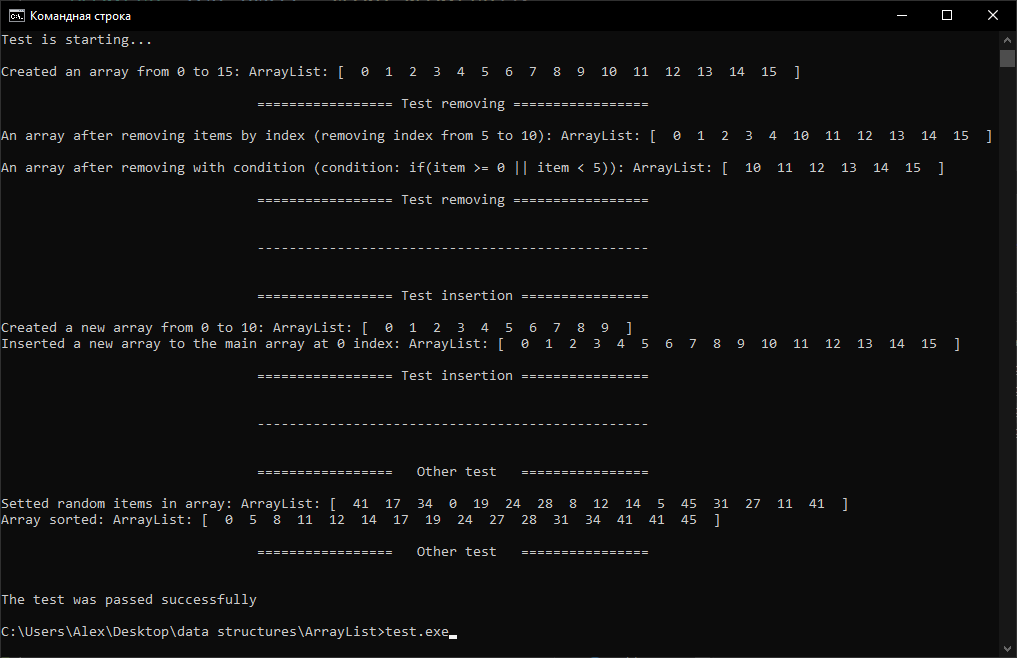
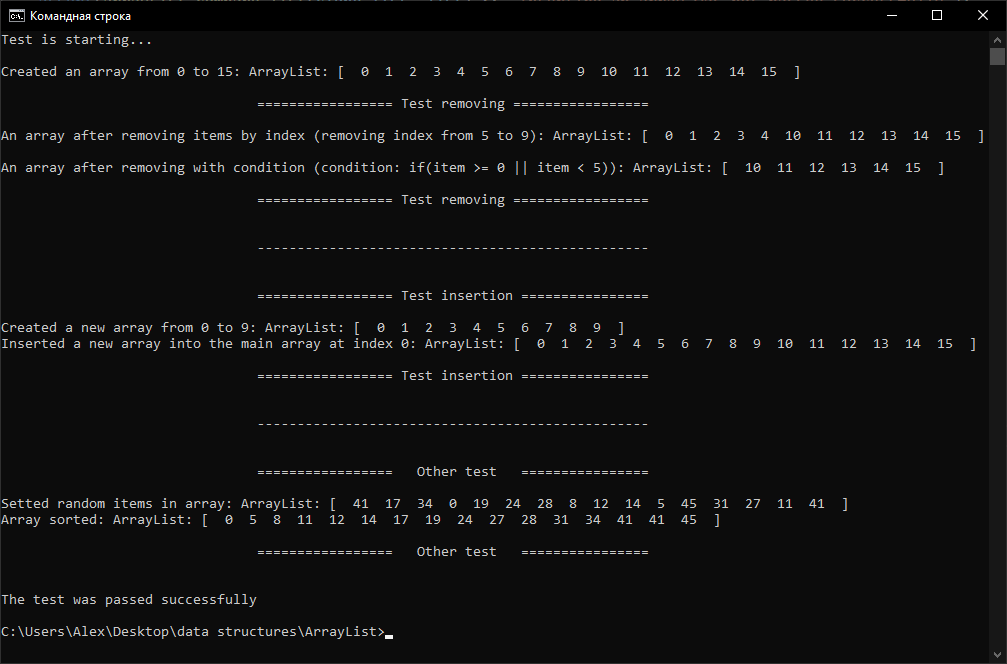
Created stack

diff --git a/Stack/stack.c b/Stack/stack.c
@@ -1,0 +1,98 @@
+#include "stack.h"
+
+#include <stdio.h>
+#include <stdlib.h>
+
+#define INITIAL_DEFAULT_SIZE 16
+
+Stack* create_stack()
+{
+    Stack* stack = malloc(sizeof(Stack));
+
+    if(stack == NULL)
+    {
+        fprintf(stderr, "Error alocation memory!\n");
+        return NULL;
+    }
+
+    stack->size = 0;
+    stack->capacity = INITIAL_DEFAULT_SIZE;
+
+    stack->array_stack = malloc(sizeof(void *) * INITIAL_DEFAULT_SIZE);
+
+    if(stack->array_stack == NULL)
+    {
+        fprintf(stderr, "Error alocation memory!\n");
+        return NULL;
+    }
+
+    return stack;
+}
+
+Stack* create_stackN(unsigned int size)
+{
+    Stack* stack = malloc(sizeof(Stack));
+
+    if(stack == NULL)
+    {
+        fprintf(stderr, "Error alocation memory!\n");
+        return NULL;
+    }
+
+    stack->size = 0;
+    stack->capacity = size;
+
+    stack->array_stack = malloc(sizeof(void *) * size);
+
+    if(stack->array_stack == NULL)
+    {
+        fprintf(stderr, "Error alocation memory!\n");
+        return NULL;
+    }
+
+    return stack;
+}
+
+void stack_push(Stack* stack, void* item)
+{
+    if(stack->size + 1 > stack->capacity)
+    {
+        /* */
+    }
+
+    stack->array_stack[stack->size++] = item;
+}
+
+void* stack_pop(Stack* stack)
+{
+    if(stack->size == 0)
+        return NULL;
+
+    return stack->array_stack[--stack->size];
+}
+
+void delete_stack(Stack* stack)
+{
+    free(stack->array_stack);
+    free(stack);
+}
+
+extern inline void remove_All(Stack* stack)
+{   
+    stack->size = 0;
+}
+
+extern inline unsigned int stack_get_size(Stack* stack)
+{
+    return stack->size;
+}
+
+extern inline unsigned int stack_get_capacity(Stack* stack)
+{
+    return stack->capacity;
+}
+
+extern inline _Bool stack_is_empty(Stack* stack)
+{
+    return stack->size == 0 ? true : false;
+}

diff --git a/ArrayList/test.c b/ArrayList/test.c
@@ -42,7 +42,7 @@ void test_arrayList()
     }
 
     printf("\n\t\t\t\t================= Test removing ================= \n\n");
-    printf("An array after removing items by index (removing index from 5 to 10): %s\n", arrayList_to_string(list, " %d ", buffer));
+    printf("An array after removing items by index (removing index from 5 to 9): %s\n", arrayList_to_string(list, " %d ", buffer));
     assert(arrayList_compare_list(list, test_remove) && "Removing by index was not passed successfully");
 
     arrayList_removeAll(test_remove);
@@ -77,11 +77,11 @@ void test_arrayList()
         arrayList_add_by_index(test_insert, i, (void *)i);
     }
 
-    printf("Created a new array from 0 to 10: %s\n", arrayList_to_string(test_insert, " %d ", buffer));
+    printf("Created a new array from 0 to 9: %s\n", arrayList_to_string(test_insert, " %d ", buffer));
 
     arrayList_insert_list(list, test_insert, 0);
 
-    printf("Inserted a new array to the main array at 0 index: %s\n", arrayList_to_string(list, " %d ", buffer));
+    printf("Inserted a new array into the main array at index 0: %s\n", arrayList_to_string(list, " %d ", buffer));
 
     assert(arrayList_compare_list(clone_list, list) && "Inserting an array was not passed successfully");
 
@@ -110,4 +110,6 @@ int main()
     printf("Test is starting...\n\n");
     test_arrayList();
     printf("\nThe test was passed successfully\n");
+
+    return 0;
 }

diff --git a/Stack/stack.h b/Stack/stack.h
@@ -1,0 +1,22 @@
+#include <stdbool.h>
+
+
+typedef struct {
+    unsigned int size;
+    unsigned int capacity;
+    _Bool auto_growing;
+    void** array_stack;
+} Stack;
+
+Stack* create_stack(); // create stack with default size
+Stack* create_stackN(unsigned int size); // create stack with N size
+
+void stack_push(Stack* stack, void* item); // add item to stack 
+void* stack_pop(Stack* stack); // get item from stack
+
+inline void remove_All(Stack* stack); // remove all the item from stack 
+inline unsigned int stack_get_size(Stack* stack); // get stack size
+inline unsigned int stack_get_capacity(Stack* stack); // get stack capacity
+inline _Bool stack_is_empty(Stack* stack); // return true if stack size = 0
+
+void delete_stack(Stack* stack);

diff --git a/Stack/test.c b/Stack/test.c
@@ -1,0 +1,24 @@
+#include "stack.h"
+#include <stdio.h>
+
+int main()
+{
+    Stack* stack = create_stack();
+
+    char* strings[5] = {
+        "hello", "bye", "world", "end", "begin"
+    };
+
+    for(int i = 0; i < 5; i++)
+    {
+        stack_push(stack, (void *)strings[i]);
+    }
+
+    for(int i = 0; i < 5; i++)
+    {
+        printf("%s\n", stack_pop(stack));
+    }
+
+    delete_stack(stack);
+    return 0;
+}

diff --git a/ArrayList/arraylist.c b/ArrayList/arraylist.c
@@ -94,7 +94,7 @@ void arrayList_set(ArrayList* list, int index, void* item)
     list->data[index] = item;
 }
 
-bool arrayList_contains(ArrayList* list, void* item)
+_Bool arrayList_contains(ArrayList* list, void* item)
 {
     for(int i = 0; i < list->size; i++)
     {
